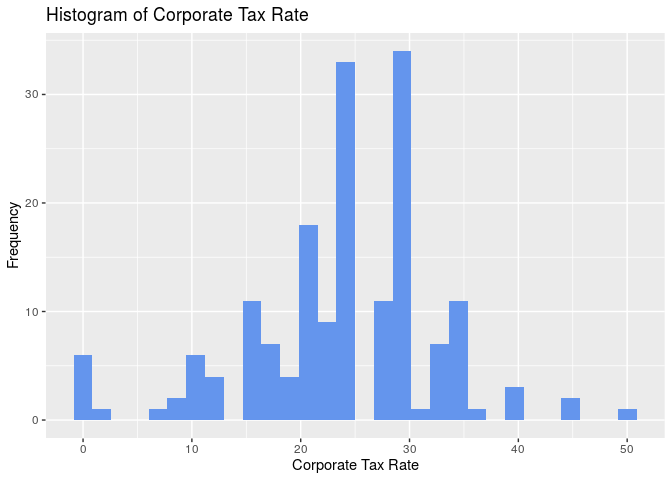
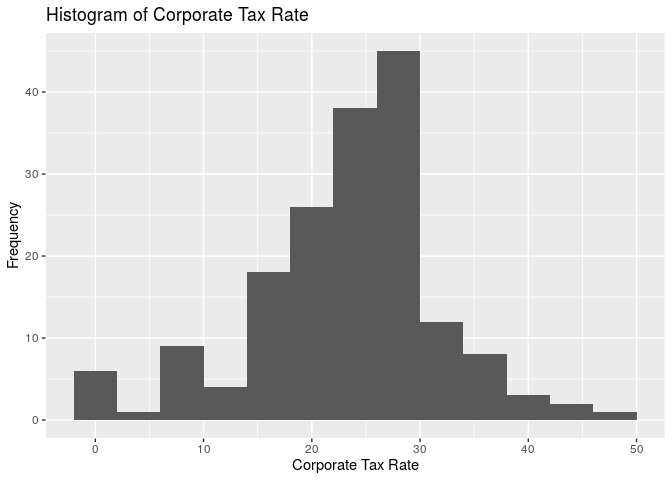
Added graphs

diff --git a/01-proposal/proposal.md b/01-proposal/proposal.md
@@ -424,7 +424,7 @@ actual geographical distribution of nation-states.
 
 ``` r
 ggplot(mapping = aes(x = GovInterference), data = economic_data) +
-  geom_bar(fill = "cornflowerblue") +
+  geom_bar() +
   labs(title = "Bar Graph of Government Inteference in Economy", x  = "Levels of Government Interference", y = "Frequency")
 ```
 
@@ -441,11 +441,9 @@ because government interference is a categorical variable.
 
 ``` r
 ggplot(mapping = aes(x = TariffRate), data = economic_data) + 
-  geom_histogram(fill = "cornflowerblue") +
+  geom_histogram(binwidth = 1) +
   labs(title = "Histogram of Tariff Rate", x  = "Tariff Rate", y = "Frequency")
 ```
-
-    ## `stat_bin()` using `bins = 30`. Pick better value with `binwidth`.
 
 ![](proposal_files/figure-gfm/Tariff%20Rate-1.png)<!-- -->
 
@@ -473,11 +471,9 @@ right-skew, log-transforming this variable might be necessary.
 
 ``` r
 ggplot(mapping = aes(x = IncomeTaxRate), data = economic_data) +
-  geom_histogram(fill = "cornflowerblue") +
+  geom_histogram(binwidth = 5) +
   labs(title = "Histogram of Income Tax Rate", x  = "Income Tax Rate", y = "Frequency")
 ```
-
-    ## `stat_bin()` using `bins = 30`. Pick better value with `binwidth`.
 
 ![](proposal_files/figure-gfm/Income%20Tax%20Rate-1.png)<!-- -->
 
@@ -509,11 +505,9 @@ the distribution is 13.4.
 
 ``` r
 ggplot(mapping = aes(x = CorporateTaxRate), data = economic_data) +
-geom_histogram(fill = "cornflowerblue") +
+geom_histogram(binwidth = 4) +
 labs(title = "Histogram of Corporate Tax Rate", x  = "Corporate Tax Rate", y = "Frequency")
 ```
-
-    ## `stat_bin()` using `bins = 30`. Pick better value with `binwidth`.
 
 ![](proposal_files/figure-gfm/Corporate%20Tax%20Rate-1.png)<!-- -->
 
